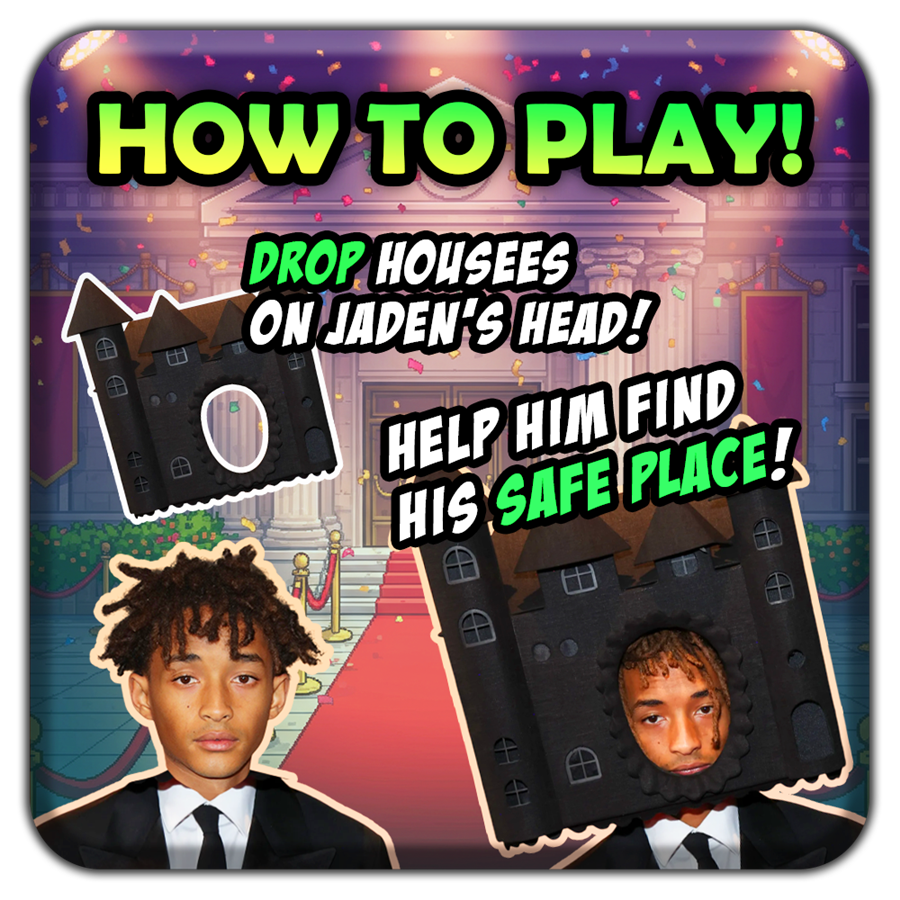
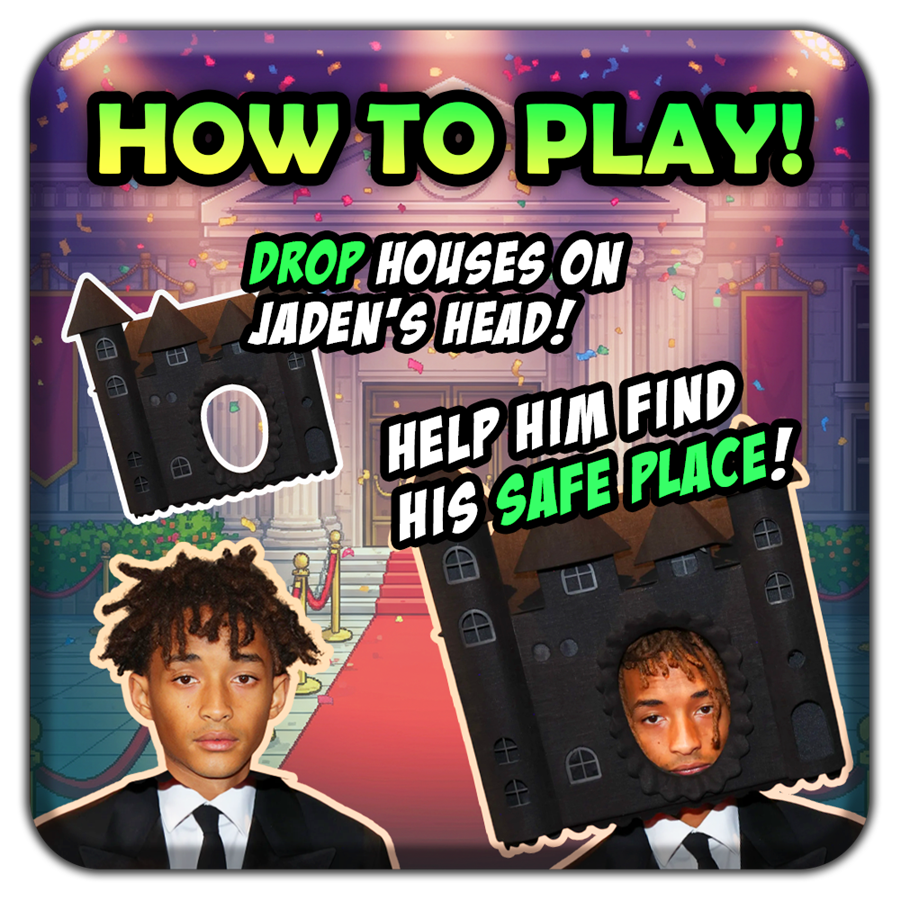
dada

Changed region(s): [[0.2489, 0.2489, 0.7467, 0.4044]]

diff --git a/data.js b/data.js
@@ -1,1 +1,1 @@
-{"project": [null,null,[[0,true,false,false,false,false,false,false,false,false],[1,true,false,false,false,false,false,false,false,false],[2,true,false,false,false,false,false,false,false,false],[3,true,false,false,false,false,false,false,false,false],[4,false,true,true,true,true,true,true,true,false],[5,false,true,true,true,true,true,true,true,false]],[["t0",4,false,[],1,0,null,[["Default",0,false,1,0,false,934615413636924,[["images/redlightgreenlighthowto-sheet1.png",1020948,0,0,900,900,1,0.5,0.5,[],[],0],["images/redlightgreenlighthowto-sheet2.png",1047780,0,0,900,900,1,0.5,0.5,[],[],0],["images/redlightgreenlighthowto-sheet0.png",335742,0,0,1000,1000,1,0.5,0.5,[],[],0]]]],[["Sine",6,769818548129061]],false,false,484158275400442,[],null],["t1",4,false,[],1,0,null,[["Default",5,false,1,0,false,708349864196562,[["images/play-sheet0.png",4027,0,0,600,206,1,0.5,0.5,[],[-0.4233332872390747,-0.2766990065574646,0,-0.3592230081558228,0.4300000071525574,-0.2961170077323914,0.4533330202102661,0,0.4383329749107361,0.3203880190849304,0,0.4174759984016419,-0.4316667020320892,0.3009709715843201,-0.4433332979679108,0],0]]]],[["Sine",6,757295226478938]],false,false,863698062959007,[],null],["t2",2,false,[],0,0,null,null,[],false,false,798479167170685,[],null,[]],["t3",0,false,[],0,0,null,null,[],false,false,432504684028921,[],null,[0,0,0,1,1,600,600,10000,1]],["t4",1,false,[],0,0,null,null,[],false,false,821550897631863,[],null,[]],["t5",3,false,[],0,0,null,null,[],false,false,749594187937061,[],null,[1]],["t6",4,false,[],4,0,null,[["Default",5,false,1,0,false,685911780403896,[["images/hat-sheet0.png",123162,0,0,361,364,1,0.5013850331306458,0.5,[],[-0.5013850331306458,-0.5,0.4986149668693543,-0.5,0.4986149668693543,0.5,0.314231812953949,0.5,0.3015924692153931,-0.2390117049217224,-0.2416902184486389,-0.2335169911384583,-0.2617733478546143,0.5,-0.5013850331306458,0.5],0]]]],[["Physics",7,683381340300786],["DestroyOutsideLayout",8,747775844607110],["Pin",9,683624153733995],["Sine",6,482482238616459]],false,false,294922397558033,[],null],["t7",4,false,[],3,0,null,[["Default",5,false,1,0,false,224399068569291,[["images/jaden-sheet0.png",137157,0,0,429,360,1,0.501165509223938,1,[],[-0.08391636610031128,-0.8222221732139587,0.09323966503143311,-0.822222113609314,0.09557050466537476,-0.2194448113441467,0.498834490776062,0,-0.4988345205783844,-0.002777755260467529,-0.08624759316444397,-0.2083332538604736],0]]]],[["Sine",6,129393142801780],["Physics",7,927735168762995],["Persist",10,559148253821529]],false,false,296092659330404,[],null],["t8",5,false,[],0,0,null,null,[],false,false,641930157193456,[],null],["t9",4,false,[],0,0,null,[["Default",5,false,1,0,false,657968008466952,[["images/bg-sheet0.png",2813800,0,0,1080,1920,1,0.5,0.5,[],[],0]]]],[],false,false,392359432186489,[],null],["t10",5,false,[],0,0,null,null,[],false,false,671402932303208,[],null],["t11",4,false,[],1,0,null,[["Default",5,false,1,0,false,464518682014919,[["images/anchor-sheet0.png",168,0,0,250,250,1,0.5,0.5,[],[],3]]]],[["DragDrop",11,897183146568015]],false,false,225136202051046,[],null],["t12",4,false,[],2,0,null,[["Default",5,false,1,0,false,820596853013157,[["images/sprite3sheet-sheet0.png",818890,0,0,1080,1080,1,0.5,0.5,[],[-0.4370370507240295,-0.4370370507240295,0,-0.4842592477798462,0.4138888716697693,-0.4138888716697693,0.3972222208976746,0,0.2379629611968994,0.2379629611968994,0,0.4564814567565918,-0.4240740835666657,0.4240740537643433,-0.2805555462837219,0],0]]]],[["LiteTween",12,870508059233258],["Fade",13,584405779251244]],false,false,611714257080779,[],null],["t13",4,false,[],2,0,null,[["Default",5,false,1,0,false,753474921770714,[["images/jadensmithwithhouse-sheet0.png",277439,0,0,475,561,1,0.5010526180267334,0.5008912682533264,[],[-0.4210526347160339,-0.4331550896167755,-0.002105236053466797,-0.3262032270431519,0.3894736766815186,-0.4081996381282806,0.4568421244621277,-0.001782536506652832,0.4947368502616882,0.4955436587333679,-0.002105236053466797,0.4991087317466736,-0.3199999928474426,0.3458110690116882,-0.4315789341926575,-0.001782536506652832],0]]]],[["LiteTween",12,441544596897119],["Fade",13,690616069666124]],false,false,486573894853768,[],null],["t14",4,false,[],0,0,null,[["Default",5,false,1,0,false,811579493781999,[["images/sprite-sheet0.png",5121,0,0,100,100,1,0.5,0.449999988079071,[],[],0]]]],[],false,false,520608291540629,[],null],["t15",4,false,[],0,0,null,[["Default",5,false,1,0,false,378300458729611,[["images/sprite-sheet0.png",5121,0,0,100,100,1,0.5,0.449999988079071,[],[],0]]]],[],false,false,674300627963728,[],null],["t16",4,false,[],0,0,null,[["Default",5,false,1,0,false,445779668110556,[["images/sprite-sheet0.png",5121,0,0,100,100,1,0.5,0.449999988079071,[],[],0]]]],[],false,false,875152835476076,[],null],["t17",5,true,[],1,0,null,null,[["Persist",10,246966423739900]],false,false,641503501163807,[],null],["t18",4,true,[],2,0,null,null,[["Persist",10,577449865059045],["Flash",14,841686804001314]],false,false,502858304247326,[],null]],[[17,8,10],[18,14,15,16]],[["Layout 1",1080,1920,false,"Event sheet 1",8873350371196689,[["Layer 0",0,8722530541249526,true,[255,255,255],false,1,1,1,false,false,1,0,0,[[[540,960,0,1080,1920,0,0,1,0.5,0.5,0,0,[]],9,9,[],[],[0,"Default",0,1]],[[540,1920,0,429,360,0,0,1,0.501165509223938,1,0,0,[]],7,7,[],[[1,0,0,6,0,0,0,400,0],[1,0,0,1,0.5,0,0,0.01,0,1],[]],[0,"Default",0,1]],[[540,350,0,361,364,0,0,1,0.5013850331306458,0.5,0,0,[]],6,6,[],[[0,0,0,1,0.5,0,0,0.01,0,1],[],[],[1,2,1,1,0,0,0,10,0]],[0,"Default",0,1]],[[1793,150,0,500,150,0,0,1,1,0,0,0,[]],10,10,[],[[]],["0",0,"72pt Impact","rgb(0,0,0)",2,0,2,0,0]],[[540,50,0,500,188,0,0,1,0.5,0,0,0,[]],8,8,[],[[]],["0",0,"90pt Impact","rgb(233,233,255)",1,0,1,0,0]],[[540,350,0,365,365,0,0,1,0.5,0.5,0,0,[]],11,11,[],[[1,0]],[0,"Default",0,1]],[[540,960,0,0,0,0,0,1,0.5,0.5,0,0,[]],12,12,[],[[0,1,0,"2000,2000",0,0.5,1],[0,0,0,0.5,1]],[0,"Default",0,1]],[[540,960,0,0,0,0,0,1,0.5010526180267334,0.5008912682533264,0,0,[]],13,13,[],[[0,1,23,"475, 561",0,1,1],[0,0,0.5,0.5,1]],[0,"Default",0,1]],[[83,106,0,100,100,0,0,1,0.5,0.449999988079071,0,0,[]],14,14,[],[[],[]],[0,"Default",0,1]],[[193,106,0,100,100,0,0,1,0.5,0.449999988079071,0,0,[]],15,15,[],[[],[]],[0,"Default",0,1]],[[303,106,0,100,100,0,0,1,0.5,0.449999988079071,0,0,[]],16,16,[],[[],[]],[0,"Default",0,1]]],[]],["Layer 1",1,204875009635387,true,[255,255,255],true,1,1,1,false,false,1,0,0,[[[540,960,0,900,900,0,0,1,0.5,0.5,0,0,[]],0,0,[],[[1,1,0,4,0,0,0,50,0]],[0,"Default",0,1]],[[540,1658,0,600,206,0,0,1,0.5,0.5,0,0,[]],1,1,[],[[1,2,0,2,0,0,0,50,0]],[0,"Default",0,1]]],[]]],[],[]]],[["Event sheet 1",[[1,"lives",0,3,false,false,980774819837021,false],[0,null,false,null,953253224900127,[[-1,15,null,1,false,false,false,485652278235059,false]],[[3,16,null,811998857316383,false,[[2,["bg (1)",true]],[3,1],[0,[0,-20]],[1,[2,""]]]],[6,17,"Pin",332617315766826,false,[[4,11],[3,0]]],[6,18,null,407335233792721,false],[8,19,null,374229740889373,false,[[1,[2,"Sunny Spells"]],[1,[2,"https://fonts.cdnfonts.com/css/sunny-spells"]]]]]],[0,null,false,null,300080603435757,[[2,20,null,2,false,false,false,412658561601158,false,[[1,[2,"GameOver"]]]]],[[0,21,null,521043308480737,false,[[0,[20,2,22,false,null,[[0,0]]]]]],[-1,23,null,611068306609135,false,[[5,[0,1]],[3,1]]],[4,24,null,776010712377244,false,[[1,[10,[10,[2,"window.parent.postMessage({type: 'SEND_SCORE', score: "],[20,8,25,true,null]],[2,", game: 70}, '*');"]]]]],[-1,26,null,509919856201944,false,[[0,[0,3]]]],[-1,27,null,451039534633202,false],[-1,28,null,861627011098803,false,[[11,"lives"],[7,[0,3]]]],[-1,29,null,648057349128519,false]]],[0,null,false,null,553917734735561,[[-1,30,null,0,false,false,false,226357745660326,false,[[5,[0,1]]]]],[],[[0,null,false,null,523586969111342,[[5,31,null,1,false,false,false,375050002395501,false,[[4,1]]],[1,32,null,0,false,false,false,127938936188307,false]],[[-1,23,null,429249660718193,false,[[5,[0,1]],[3,0]]],[1,33,null,652805138513115,false,[[3,0]]]]]]],[0,null,false,null,619207099893007,[[-1,30,null,0,false,true,false,920825484611989,false,[[5,[0,1]]]]],[[11,34,"DragDrop",247763614160416,false,[[3,1]]],[1,33,null,168660575755135,false,[[3,0]]]],[[0,null,false,null,778578541825768,[[11,35,"DragDrop",1,false,false,false,119027767553344,false]],[[6,36,"Sine",568367583562385,false,[[3,0]]]]],[0,null,false,null,371426850751911,[[11,37,"DragDrop",1,false,false,false,124726133713628,false]],[[11,34,"DragDrop",489723918067454,false,[[3,0]]],[6,38,"Pin",606784791479826,false],[3,16,null,324438851035683,false,[[2,["boing",false]],[3,0],[0,[0,0]],[1,[2,""]]]]]],[0,null,false,null,853035674784761,[[6,39,null,1,false,false,false,367393686752045,false],[3,40,null,0,false,true,false,231578361530688,false,[[1,[2,"win"]]]]],[[2,41,null,965322234556005,false,[[1,[2,"LifeManager"]],[13]]]]],[0,null,false,null,791904867174917,[[13,42,"LiteTween",1,false,false,false,769489818858352,false]],[[13,43,"Fade",877193455486673,false]]],[0,null,false,null,158888513447221,[[7,44,null,0,false,false,true,365616255913287,false,[[4,6]]]],[[-1,26,null,460390224686719,false,[[0,[0,2]]]]],[[0,null,false,null,882688788826502,[[7,45,null,0,false,false,false,840064869322324,false,[[4,6]]],[3,40,null,0,false,true,false,355616398542888,false,[[1,[2,"win"]]]]],[[3,16,null,245444465968517,false,[[2,["house drop",false]],[3,0],[0,[0,20]],[1,[2,"win"]]]],[8,46,null,135575317922615,false,[[7,[10,[2,""],[4,[19,47,[[20,8,25,true,null]]],[0,1]]]]]],[10,46,null,394410359318894,false,[[7,[10,[2,""],[20,8,25,true,null]]]]],[12,48,"LiteTween",351621628763956,false,[[3,0],[3,0]]],[12,43,"Fade",988962208881718,false],[13,48,"LiteTween",421886014165555,false,[[3,0],[3,0]]],[7,49,"Sine",180395507879693,false,[[0,[5,[22,7,"Sine",50,false,null],[0,1]]]]],[-1,26,null,453324524600821,false,[[0,[0,2]]]],[-1,29,null,624644391411242,false]]]]]]],[0,null,false,null,503514564256597,[[2,20,null,2,false,false,false,362128168001758,false,[[1,[2,"LifeManager"]]]]],[[-1,51,null,389997479324502,false,[[11,"lives"],[7,[0,1]]]]],[[0,null,false,null,510664768986914,[[-1,52,null,0,false,false,false,254534892077341,false,[[7,[23,"lives"]],[8,0],[7,[0,2]]]]],[[16,53,"Flash",690070809892257,false,[[0,[1,0.1]],[0,[1,0.1]],[0,[1,1]]]],[-1,29,null,746223726060580,false]]],[0,null,false,null,512958416768508,[[-1,52,null,0,false,false,false,516379214591040,false,[[7,[23,"lives"]],[8,0],[7,[0,1]]]]],[[15,53,"Flash",261816543904142,false,[[0,[1,0.1]],[0,[1,0.1]],[0,[1,1]]]],[-1,29,null,350153640743061,false]]],[0,null,false,null,587197507078679,[[-1,52,null,0,false,false,false,752763654217012,false,[[7,[23,"lives"]],[8,0],[7,[0,0]]]]],[[14,53,"Flash",411078953084147,false,[[0,[1,0.1]],[0,[1,0.1]],[0,[1,1]]]],[-1,29,null,985335273750430,false]]],[0,null,false,null,554236597737247,[[-1,52,null,0,false,false,false,700760306944055,false,[[7,[23,"lives"]],[8,0],[7,[0,-1]]]]],[[3,16,null,876772607266477,false,[[2,["game over",false]],[3,0],[0,[0,0]],[1,[2,""]]]],[2,41,null,306121474157396,false,[[1,[2,"GameOver"]],[13,[7,[0,1]]]]]]]]],[0,null,false,null,590777201299278,[[16,54,"Flash",1,false,false,false,819912156668161,false]],[[16,33,null,397156444525661,false,[[3,0]]]]],[0,null,false,null,834782936103974,[[15,54,"Flash",1,false,false,false,287609424351011,false]],[[15,33,null,593578980852467,false,[[3,0]]]]],[0,null,false,null,489445413430767,[[14,54,"Flash",1,false,false,false,550066511349933,false]],[[14,33,null,850987008017447,false,[[3,0]]]]]]]],[["tap.m4a",2143],["tap.ogg",4975],["game over.m4a",26151],["game over.ogg",24687],["house drop.m4a",26179],["house drop.ogg",24023],["boing.m4a",20285],["boing.ogg",20820]],"media/",false,1080,1920,4,true,true,true,"1.0.0.0",true,false,0,1,17,false,true,1,true,"JadenHat",0,[]]}
+{"project": [null,null,[[0,true,false,false,false,false,false,false,false,false],[1,true,false,false,false,false,false,false,false,false],[2,true,false,false,false,false,false,false,false,false],[3,true,false,false,false,false,false,false,false,false],[4,false,true,true,true,true,true,true,true,false],[5,false,true,true,true,true,true,true,true,false]],[["t0",4,false,[],1,0,null,[["Default",0,false,1,0,false,934615413636924,[["images/redlightgreenlighthowto-sheet1.png",1019767,0,0,900,900,1,0.5,0.5,[],[],0],["images/redlightgreenlighthowto-sheet2.png",1047780,0,0,900,900,1,0.5,0.5,[],[],0],["images/redlightgreenlighthowto-sheet0.png",335742,0,0,1000,1000,1,0.5,0.5,[],[],0]]]],[["Sine",6,769818548129061]],false,false,484158275400442,[],null],["t1",4,false,[],1,0,null,[["Default",5,false,1,0,false,708349864196562,[["images/play-sheet0.png",4027,0,0,600,206,1,0.5,0.5,[],[-0.4233332872390747,-0.2766990065574646,0,-0.3592230081558228,0.4300000071525574,-0.2961170077323914,0.4533330202102661,0,0.4383329749107361,0.3203880190849304,0,0.4174759984016419,-0.4316667020320892,0.3009709715843201,-0.4433332979679108,0],0]]]],[["Sine",6,757295226478938]],false,false,863698062959007,[],null],["t2",2,false,[],0,0,null,null,[],false,false,798479167170685,[],null,[]],["t3",0,false,[],0,0,null,null,[],false,false,432504684028921,[],null,[0,0,0,1,1,600,600,10000,1]],["t4",1,false,[],0,0,null,null,[],false,false,821550897631863,[],null,[]],["t5",3,false,[],0,0,null,null,[],false,false,749594187937061,[],null,[1]],["t6",4,false,[],4,0,null,[["Default",5,false,1,0,false,685911780403896,[["images/hat-sheet0.png",123162,0,0,361,364,1,0.5013850331306458,0.5,[],[-0.5013850331306458,-0.5,0.4986149668693543,-0.5,0.4986149668693543,0.5,0.314231812953949,0.5,0.3015924692153931,-0.2390117049217224,-0.2416902184486389,-0.2335169911384583,-0.2617733478546143,0.5,-0.5013850331306458,0.5],0]]]],[["Physics",7,683381340300786],["DestroyOutsideLayout",8,747775844607110],["Pin",9,683624153733995],["Sine",6,482482238616459]],false,false,294922397558033,[],null],["t7",4,false,[],3,0,null,[["Default",5,false,1,0,false,224399068569291,[["images/jaden-sheet0.png",137157,0,0,429,360,1,0.501165509223938,1,[],[-0.08391636610031128,-0.8222221732139587,0.09323966503143311,-0.822222113609314,0.09557050466537476,-0.2194448113441467,0.498834490776062,0,-0.4988345205783844,-0.002777755260467529,-0.08624759316444397,-0.2083332538604736],0]]]],[["Sine",6,129393142801780],["Physics",7,927735168762995],["Persist",10,559148253821529]],false,false,296092659330404,[],null],["t8",5,false,[],0,0,null,null,[],false,false,641930157193456,[],null],["t9",4,false,[],0,0,null,[["Default",5,false,1,0,false,657968008466952,[["images/bg-sheet0.png",2813800,0,0,1080,1920,1,0.5,0.5,[],[],0]]]],[],false,false,392359432186489,[],null],["t10",5,false,[],0,0,null,null,[],false,false,671402932303208,[],null],["t11",4,false,[],1,0,null,[["Default",5,false,1,0,false,464518682014919,[["images/anchor-sheet0.png",168,0,0,250,250,1,0.5,0.5,[],[],3]]]],[["DragDrop",11,897183146568015]],false,false,225136202051046,[],null],["t12",4,false,[],2,0,null,[["Default",5,false,1,0,false,820596853013157,[["images/sprite3sheet-sheet0.png",818890,0,0,1080,1080,1,0.5,0.5,[],[-0.4370370507240295,-0.4370370507240295,0,-0.4842592477798462,0.4138888716697693,-0.4138888716697693,0.3972222208976746,0,0.2379629611968994,0.2379629611968994,0,0.4564814567565918,-0.4240740835666657,0.4240740537643433,-0.2805555462837219,0],0]]]],[["LiteTween",12,870508059233258],["Fade",13,584405779251244]],false,false,611714257080779,[],null],["t13",4,false,[],2,0,null,[["Default",5,false,1,0,false,753474921770714,[["images/jadensmithwithhouse-sheet0.png",277439,0,0,475,561,1,0.5010526180267334,0.5008912682533264,[],[-0.4210526347160339,-0.4331550896167755,-0.002105236053466797,-0.3262032270431519,0.3894736766815186,-0.4081996381282806,0.4568421244621277,-0.001782536506652832,0.4947368502616882,0.4955436587333679,-0.002105236053466797,0.4991087317466736,-0.3199999928474426,0.3458110690116882,-0.4315789341926575,-0.001782536506652832],0]]]],[["LiteTween",12,441544596897119],["Fade",13,690616069666124]],false,false,486573894853768,[],null],["t14",4,false,[],0,0,null,[["Default",5,false,1,0,false,811579493781999,[["images/sprite-sheet0.png",5121,0,0,100,100,1,0.5,0.449999988079071,[],[],0]]]],[],false,false,520608291540629,[],null],["t15",4,false,[],0,0,null,[["Default",5,false,1,0,false,378300458729611,[["images/sprite-sheet0.png",5121,0,0,100,100,1,0.5,0.449999988079071,[],[],0]]]],[],false,false,674300627963728,[],null],["t16",4,false,[],0,0,null,[["Default",5,false,1,0,false,445779668110556,[["images/sprite-sheet0.png",5121,0,0,100,100,1,0.5,0.449999988079071,[],[],0]]]],[],false,false,875152835476076,[],null],["t17",5,true,[],1,0,null,null,[["Persist",10,246966423739900]],false,false,641503501163807,[],null],["t18",4,true,[],2,0,null,null,[["Persist",10,577449865059045],["Flash",14,841686804001314]],false,false,502858304247326,[],null]],[[17,8,10],[18,14,15,16]],[["Layout 1",1080,1920,false,"Event sheet 1",8873350371196689,[["Layer 0",0,8722530541249526,true,[255,255,255],false,1,1,1,false,false,1,0,0,[[[540,960,0,1080,1920,0,0,1,0.5,0.5,0,0,[]],9,9,[],[],[0,"Default",0,1]],[[540,1920,0,429,360,0,0,1,0.501165509223938,1,0,0,[]],7,7,[],[[1,0,0,6,0,0,0,400,0],[1,0,0,1,0.5,0,0,0.01,0,1],[]],[0,"Default",0,1]],[[540,350,0,361,364,0,0,1,0.5013850331306458,0.5,0,0,[]],6,6,[],[[0,0,0,1,0.5,0,0,0.01,0,1],[],[],[1,2,1,1,0,0,0,10,0]],[0,"Default",0,1]],[[1793,150,0,500,150,0,0,1,1,0,0,0,[]],10,10,[],[[]],["0",0,"72pt Impact","rgb(0,0,0)",2,0,2,0,0]],[[540,50,0,500,188,0,0,1,0.5,0,0,0,[]],8,8,[],[[]],["0",0,"90pt Impact","rgb(233,233,255)",1,0,1,0,0]],[[540,350,0,365,365,0,0,1,0.5,0.5,0,0,[]],11,11,[],[[1,0]],[0,"Default",0,1]],[[540,960,0,0,0,0,0,1,0.5,0.5,0,0,[]],12,12,[],[[0,1,0,"2000,2000",0,0.5,1],[0,0,0,0.5,1]],[0,"Default",0,1]],[[540,960,0,0,0,0,0,1,0.5010526180267334,0.5008912682533264,0,0,[]],13,13,[],[[0,1,23,"475, 561",0,1,1],[0,0,0.5,0.5,1]],[0,"Default",0,1]],[[83,106,0,100,100,0,0,1,0.5,0.449999988079071,0,0,[]],14,14,[],[[],[]],[0,"Default",0,1]],[[193,106,0,100,100,0,0,1,0.5,0.449999988079071,0,0,[]],15,15,[],[[],[]],[0,"Default",0,1]],[[303,106,0,100,100,0,0,1,0.5,0.449999988079071,0,0,[]],16,16,[],[[],[]],[0,"Default",0,1]]],[]],["Layer 1",1,204875009635387,true,[255,255,255],true,1,1,1,false,false,1,0,0,[[[540,960,0,900,900,0,0,1,0.5,0.5,0,0,[]],0,0,[],[[1,1,0,4,0,0,0,50,0]],[0,"Default",0,1]],[[540,1658,0,600,206,0,0,1,0.5,0.5,0,0,[]],1,1,[],[[1,2,0,2,0,0,0,50,0]],[0,"Default",0,1]]],[]]],[],[]]],[["Event sheet 1",[[1,"lives",0,3,false,false,980774819837021,false],[0,null,false,null,953253224900127,[[-1,15,null,1,false,false,false,485652278235059,false]],[[3,16,null,811998857316383,false,[[2,["bg (1)",true]],[3,1],[0,[0,-20]],[1,[2,""]]]],[6,17,"Pin",332617315766826,false,[[4,11],[3,0]]],[6,18,null,407335233792721,false],[8,19,null,374229740889373,false,[[1,[2,"Sunny Spells"]],[1,[2,"https://fonts.cdnfonts.com/css/sunny-spells"]]]]]],[0,null,false,null,300080603435757,[[2,20,null,2,false,false,false,412658561601158,false,[[1,[2,"GameOver"]]]]],[[0,21,null,521043308480737,false,[[0,[20,2,22,false,null,[[0,0]]]]]],[-1,23,null,611068306609135,false,[[5,[0,1]],[3,1]]],[4,24,null,776010712377244,false,[[1,[10,[10,[2,"window.parent.postMessage({type: 'SEND_SCORE', score: "],[20,8,25,true,null]],[2,", game: 70}, '*');"]]]]],[-1,26,null,509919856201944,false,[[0,[0,3]]]],[-1,27,null,451039534633202,false],[-1,28,null,861627011098803,false,[[11,"lives"],[7,[0,3]]]],[-1,29,null,648057349128519,false]]],[0,null,false,null,553917734735561,[[-1,30,null,0,false,false,false,226357745660326,false,[[5,[0,1]]]]],[],[[0,null,false,null,523586969111342,[[5,31,null,1,false,false,false,375050002395501,false,[[4,1]]],[1,32,null,0,false,false,false,127938936188307,false]],[[-1,23,null,429249660718193,false,[[5,[0,1]],[3,0]]],[1,33,null,652805138513115,false,[[3,0]]]]]]],[0,null,false,null,619207099893007,[[-1,30,null,0,false,true,false,920825484611989,false,[[5,[0,1]]]]],[[11,34,"DragDrop",247763614160416,false,[[3,1]]],[1,33,null,168660575755135,false,[[3,0]]]],[[0,null,false,null,778578541825768,[[11,35,"DragDrop",1,false,false,false,119027767553344,false]],[[6,36,"Sine",568367583562385,false,[[3,0]]]]],[0,null,false,null,371426850751911,[[11,37,"DragDrop",1,false,false,false,124726133713628,false]],[[11,34,"DragDrop",489723918067454,false,[[3,0]]],[6,38,"Pin",606784791479826,false],[3,16,null,324438851035683,false,[[2,["boing",false]],[3,0],[0,[0,0]],[1,[2,""]]]]]],[0,null,false,null,853035674784761,[[6,39,null,1,false,false,false,367393686752045,false],[3,40,null,0,false,true,false,231578361530688,false,[[1,[2,"win"]]]]],[[2,41,null,965322234556005,false,[[1,[2,"LifeManager"]],[13]]]]],[0,null,false,null,791904867174917,[[13,42,"LiteTween",1,false,false,false,769489818858352,false]],[[13,43,"Fade",877193455486673,false]]],[0,null,false,null,158888513447221,[[7,44,null,0,false,false,true,365616255913287,false,[[4,6]]]],[[-1,26,null,460390224686719,false,[[0,[0,2]]]]],[[0,null,false,null,882688788826502,[[7,45,null,0,false,false,false,840064869322324,false,[[4,6]]],[3,40,null,0,false,true,false,355616398542888,false,[[1,[2,"win"]]]]],[[3,16,null,245444465968517,false,[[2,["house drop",false]],[3,0],[0,[0,20]],[1,[2,"win"]]]],[8,46,null,135575317922615,false,[[7,[10,[2,""],[4,[19,47,[[20,8,25,true,null]]],[0,1]]]]]],[10,46,null,394410359318894,false,[[7,[10,[2,""],[20,8,25,true,null]]]]],[12,48,"LiteTween",351621628763956,false,[[3,0],[3,0]]],[12,43,"Fade",988962208881718,false],[13,48,"LiteTween",421886014165555,false,[[3,0],[3,0]]],[7,49,"Sine",180395507879693,false,[[0,[5,[22,7,"Sine",50,false,null],[0,1]]]]],[-1,26,null,453324524600821,false,[[0,[0,2]]]],[-1,29,null,624644391411242,false]]]]]]],[0,null,false,null,503514564256597,[[2,20,null,2,false,false,false,362128168001758,false,[[1,[2,"LifeManager"]]]]],[[-1,51,null,389997479324502,false,[[11,"lives"],[7,[0,1]]]]],[[0,null,false,null,510664768986914,[[-1,52,null,0,false,false,false,254534892077341,false,[[7,[23,"lives"]],[8,0],[7,[0,2]]]]],[[16,53,"Flash",690070809892257,false,[[0,[1,0.1]],[0,[1,0.1]],[0,[1,1]]]],[-1,29,null,746223726060580,false]]],[0,null,false,null,512958416768508,[[-1,52,null,0,false,false,false,516379214591040,false,[[7,[23,"lives"]],[8,0],[7,[0,1]]]]],[[15,53,"Flash",261816543904142,false,[[0,[1,0.1]],[0,[1,0.1]],[0,[1,1]]]],[-1,29,null,350153640743061,false]]],[0,null,false,null,587197507078679,[[-1,52,null,0,false,false,false,752763654217012,false,[[7,[23,"lives"]],[8,0],[7,[0,0]]]]],[[14,53,"Flash",411078953084147,false,[[0,[1,0.1]],[0,[1,0.1]],[0,[1,1]]]],[-1,29,null,985335273750430,false]]],[0,null,false,null,554236597737247,[[-1,52,null,0,false,false,false,700760306944055,false,[[7,[23,"lives"]],[8,0],[7,[0,-1]]]]],[[3,16,null,876772607266477,false,[[2,["game over",false]],[3,0],[0,[0,0]],[1,[2,""]]]],[2,41,null,306121474157396,false,[[1,[2,"GameOver"]],[13,[7,[0,1]]]]]]]]],[0,null,false,null,590777201299278,[[16,54,"Flash",1,false,false,false,819912156668161,false]],[[16,33,null,397156444525661,false,[[3,0]]]]],[0,null,false,null,834782936103974,[[15,54,"Flash",1,false,false,false,287609424351011,false]],[[15,33,null,593578980852467,false,[[3,0]]]]],[0,null,false,null,489445413430767,[[14,54,"Flash",1,false,false,false,550066511349933,false]],[[14,33,null,850987008017447,false,[[3,0]]]]]]]],[["tap.m4a",2143],["tap.ogg",4975],["game over.m4a",26151],["game over.ogg",24687],["house drop.m4a",26179],["house drop.ogg",24023],["boing.m4a",20285],["boing.ogg",20820]],"media/",false,1080,1920,4,true,true,true,"1.0.0.0",true,false,0,1,17,false,true,1,true,"JadenHat",0,[]]}

diff --git a/offline.js b/offline.js
@@ -1,5 +1,5 @@
 {
-	"version": 1739190264,
+	"version": 1739190456,
 	"fileList": [
 		"data.js",
 		"c2runtime.js",
